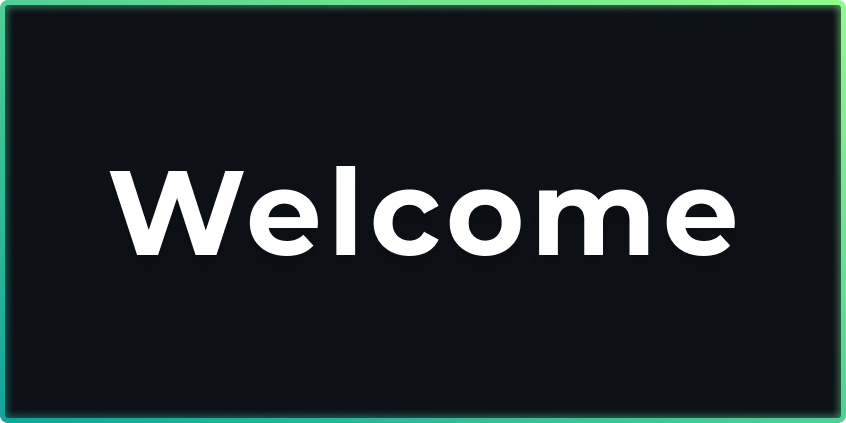
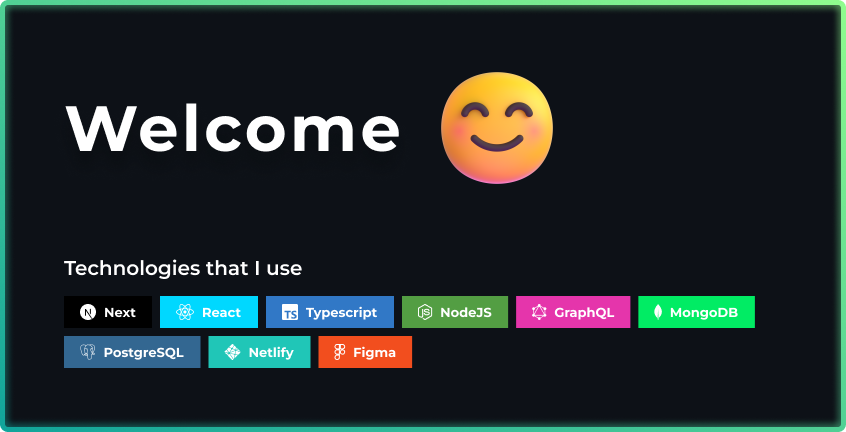
update

Changed region(s): [[0.0615, 0.1537, 0.8913, 0.6454], [0.0615, 0.6761, 0.8913, 0.8605]]

diff --git a/README.md b/README.md
@@ -1,15 +1,1 @@
 <img src="banner.png" />
-
-## Cool tech that I work with
-
-![Next JS](https://img.shields.io/badge/Next-black?style=for-the-badge&logo=next.js&logoColor=white)
-![Typescript](https://img.shields.io/badge/TypeScript-007ACC?style=for-the-badge&logo=typescript&logoColor=white)
-![React](https://img.shields.io/badge/React-20232A?style=for-the-badge&logo=react&logoColor=61DAFB)
-![Styled Components](https://img.shields.io/badge/styled--components-DB7093?style=for-the-badge&logo=styled-components&logoColor=white)
-![Node.JS](https://img.shields.io/badge/Node.js-43853D?style=for-the-badge&logo=node.js&logoColor=white)
-![GraphQL](https://img.shields.io/badge/-GraphQL-E10098?style=for-the-badge&logo=graphql&logoColor=white)
-![MySQL](https://img.shields.io/badge/MySQL-4479A1?style=for-the-badge&logo=mysql&logoColor=white)
-![MongoDB](https://img.shields.io/badge/MongoDB-4EA94B?style=for-the-badge&logo=mongodb&logoColor=white)
-![Redis](https://img.shields.io/badge/redis-%23DD0031.svg?style=for-the-badge&logo=redis&logoColor=white)
-![Netlify](https://img.shields.io/badge/Netlify-00C7B7?style=for-the-badge&logo=netlify&logoColor=white)
-![Figma](https://img.shields.io/badge/figma-F24E1E?style=for-the-badge&logo=figma&logoColor=white)
